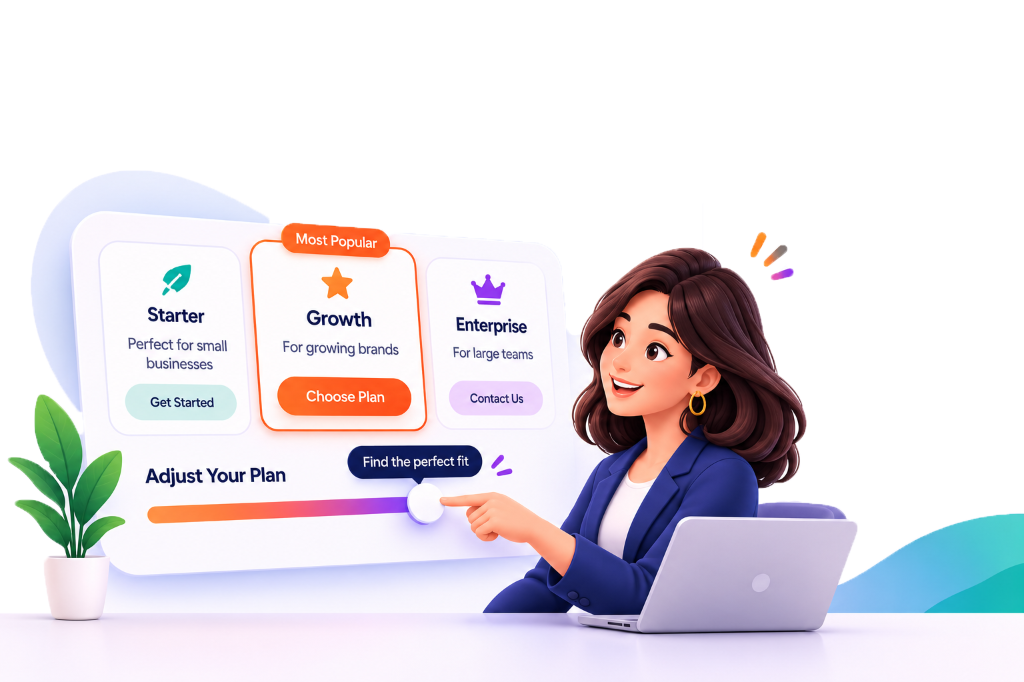
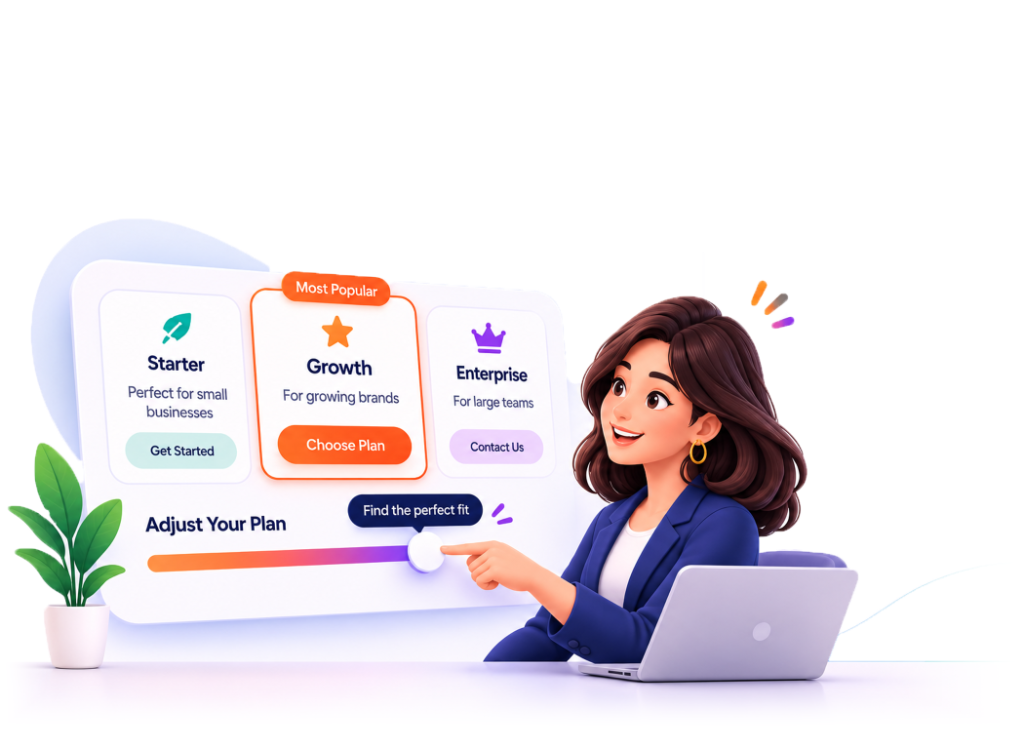
feat(pricing): update pricing section artwork and blend seamlessly with background

Changed region(s): [[0.0, 0.2771, 1.0, 0.9545], [0.0312, 0.893, 0.0938, 0.9238]]

diff --git a/index.html b/index.html
@@ -2857,7 +2857,7 @@
       position: relative;
       background: #FFFFFF;
       border-radius: 40px;
-      padding: 48px 48px 0 48px;
+      padding: 48px 48px 32px 48px;
       overflow: hidden;
       max-width: 1140px;
       margin: 0 auto;
@@ -2976,17 +2976,17 @@
       position: relative;
       z-index: 2;
       display: flex;
-      align-items: flex-end;
+      align-items: center;
       justify-content: space-between;
-      gap: 20px;
+      gap: 32px;
     }
 
     .pricing-scene-box {
       position: relative;
-      flex: 1 1 760px;
-      max-width: 800px;
+      flex: 1 1 740px;
+      max-width: 780px;
       display: flex;
-      align-items: flex-end;
+      align-items: center;
       justify-content: flex-start;
     }
 
@@ -2994,8 +2994,7 @@
       width: 100%;
       height: auto;
       display: block;
-      margin-bottom: -1px; /* Flush with card bottom */
-      filter: drop-shadow(0 15px 30px rgba(15, 23, 42, 0.05));
+      filter: drop-shadow(0 12px 28px rgba(15, 23, 42, 0.04));
     }
 
     /* Right Badges Column */
@@ -3005,7 +3004,8 @@
       gap: 18px;
       width: 275px;
       flex-shrink: 0;
-      margin-bottom: 72px; /* Vertically centered alongside the character */
+      margin-bottom: 0;
+      align-self: center;
       z-index: 3;
     }
 
@@ -3080,7 +3080,7 @@
     /* Responsive */
     @media (max-width: 980px) {
       .pricing-display-card {
-        padding: 40px 24px 30px;
+        padding: 36px 20px 28px;
         border-radius: 32px;
       }
       .pricing-display-stage {

diff --git a/landing.html b/landing.html
@@ -2857,7 +2857,7 @@
       position: relative;
       background: #FFFFFF;
       border-radius: 40px;
-      padding: 48px 48px 0 48px;
+      padding: 48px 48px 32px 48px;
       overflow: hidden;
       max-width: 1140px;
       margin: 0 auto;
@@ -2976,17 +2976,17 @@
       position: relative;
       z-index: 2;
       display: flex;
-      align-items: flex-end;
+      align-items: center;
       justify-content: space-between;
-      gap: 20px;
+      gap: 32px;
     }
 
     .pricing-scene-box {
       position: relative;
-      flex: 1 1 760px;
-      max-width: 800px;
+      flex: 1 1 740px;
+      max-width: 780px;
       display: flex;
-      align-items: flex-end;
+      align-items: center;
       justify-content: flex-start;
     }
 
@@ -2994,8 +2994,7 @@
       width: 100%;
       height: auto;
       display: block;
-      margin-bottom: -1px; /* Flush with card bottom */
-      filter: drop-shadow(0 15px 30px rgba(15, 23, 42, 0.05));
+      filter: drop-shadow(0 12px 28px rgba(15, 23, 42, 0.04));
     }
 
     /* Right Badges Column */
@@ -3005,7 +3004,8 @@
       gap: 18px;
       width: 275px;
       flex-shrink: 0;
-      margin-bottom: 72px; /* Vertically centered alongside the character */
+      margin-bottom: 0;
+      align-self: center;
       z-index: 3;
     }
 
@@ -3080,7 +3080,7 @@
     /* Responsive */
     @media (max-width: 980px) {
       .pricing-display-card {
-        padding: 40px 24px 30px;
+        padding: 36px 20px 28px;
         border-radius: 32px;
       }
       .pricing-display-stage {
